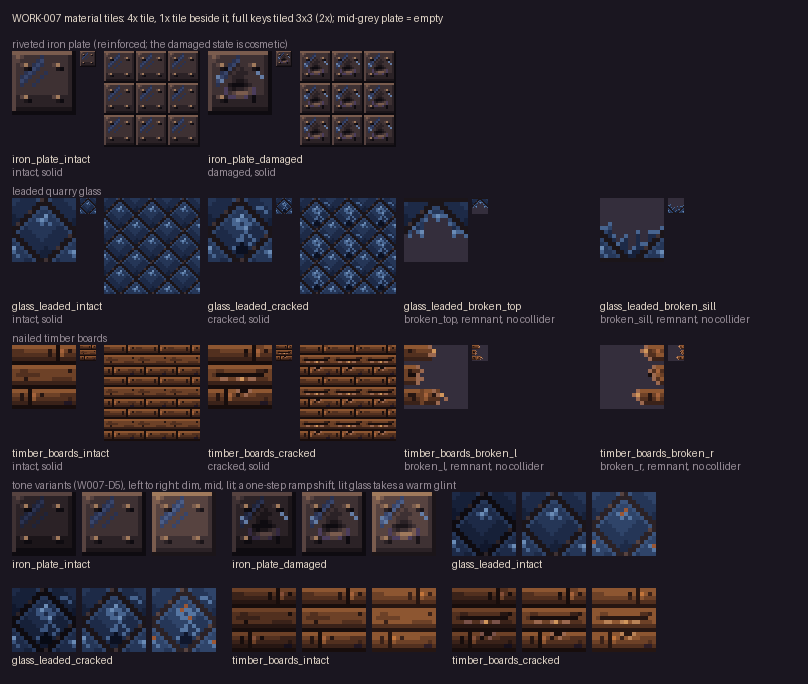
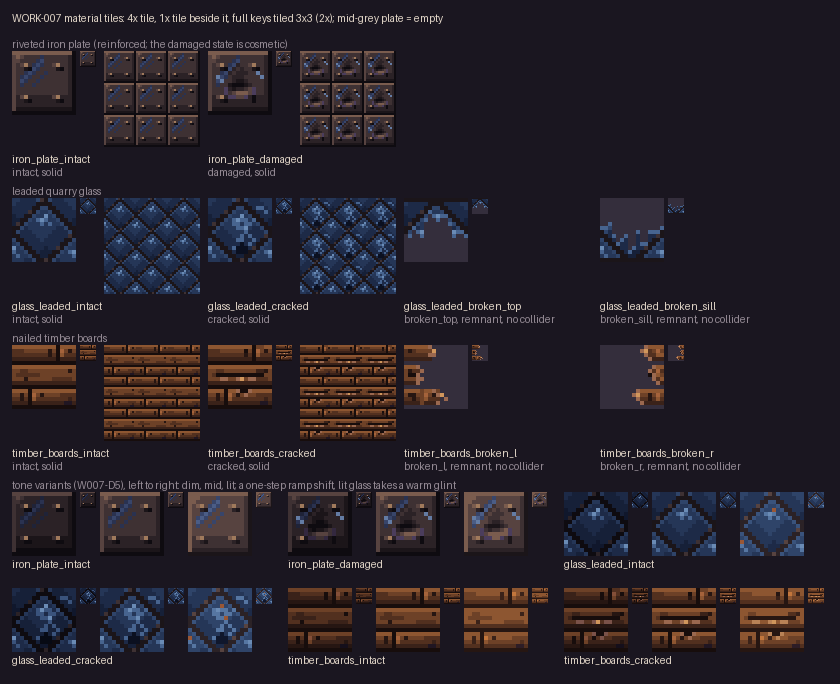
art(work-007): apply independent review fix-now items F-1 to F-6
Lit glass warms only the top pixel of each glint streak, tone shifts never land on an accent of their own ramp, remnant limit 50 percent for all four remnants, derived frames 9 to 21 frozen in the fixture, materials sheet shows the 1x tile in the tone rows, spec and evidence records refreshed.

diff --git a/scripts/author_work007_materials.py b/scripts/author_work007_materials.py
@@ -12,8 +12,9 @@ Derived frames (spec ``docs/02-art/work-007-fidelity-sample-spec.md`` section 6,
   stub lengths 5, 3 and 7 px);
 * frames 10 to 15 (``_dim``) and 16 to 21 (``_lit``) of frames 0, 1, 2, 3, 6, 7: every
   non-accent key shifts one index down (dim) or up (lit) inside its own palette ramp,
-  clamped at the ramp ends; accent keys stay; lit glass turns each ``gal_10`` glint pixel
-  into ``gal_warm_03`` and nothing else.
+  clamped at the ramp ends; accent keys stay; a shift never lands on an accent colour of its
+  own ramp (the key keeps its mid index; review ruling, PR #163); lit glass turns only the top
+  pixel of each ``gal_10`` glint streak into ``gal_warm_03`` and nothing else.
 
 Usage::
 
@@ -116,6 +117,46 @@ def shifted_name(name: str, step: int, ramp_table: dict[str, list[tuple[int, str
     return names[max(0, min(len(names) - 1, pos))]
 
 
+def tone_name(name: str, step: int, ramp_table: dict[str, list[tuple[int, str]]], accents: set[str]) -> str:
+    """One-step ramp shift of a non-accent colour; never onto an accent colour of its own ramp.
+
+    Review ruling (PR #163, Q3): a key whose one-step target is an accent colour keeps its mid
+    index, so the lit iron bevel ``iron_05`` stays ``iron_05`` and the rivet heads (``iron_06``)
+    keep their pop.
+    """
+    target = shifted_name(name, step, ramp_table)
+    return name if target in accents else target
+
+
+def glint_tops(rows: list[str], glint_key: str) -> set[tuple[int, int]]:
+    """Topmost pixel of every glint streak of a glass tile.
+
+    A streak is an 8-connected group of ``glint_key`` pixels on the tile torus, so the corner
+    glint that continues into the neighbouring tile (col 15 row 13 and col 0 row 12) counts as
+    one streak. The top is the smallest row, then the smallest column (no wrap in y).
+    """
+    cells = {(x, y) for y, row in enumerate(rows) for x, ch in enumerate(row) if ch == glint_key}
+    seen: set[tuple[int, int]] = set()
+    tops: set[tuple[int, int]] = set()
+    for start in sorted(cells, key=lambda c: (c[1], c[0])):
+        if start in seen:
+            continue
+        group, stack = set(), [start]
+        while stack:
+            x, y = stack.pop()
+            if (x, y) in group:
+                continue
+            group.add((x, y))
+            for dx in (-1, 0, 1):
+                for dy in (-1, 0, 1):
+                    n = ((x + dx) % 16, y + dy)
+                    if n in cells and n not in group:
+                        stack.append(n)
+        seen |= group
+        tops.add(min(group, key=lambda c: (c[1], c[0])))
+    return tops
+
+
 def derive(grid: dict, kit: dict) -> dict:
     """Return the grid with frames 9..21 rebuilt from the frozen keys (0 to 8 untouched)."""
     ramp_table = ramps(kit["palette"])
@@ -145,20 +186,20 @@ def derive(grid: dict, kit: dict) -> dict:
 
     def tone(frame_no: int, step: int) -> dict:
         rows = []
-        for row in grid["frames"][frame_no]["cels"]["main"]:
+        src_rows = grid["frames"][frame_no]["cels"]["main"]
+        tops = glint_tops(src_rows, by_name["gal_10"]) if step > 0 and frame_no in (2, 3) else set()
+        for y, row in enumerate(src_rows):
             out = []
-            for ch in row:
+            for x, ch in enumerate(row):
                 if ch == ".":
                     out.append(ch)
                     continue
                 name = names_by_key[ch]
                 if name in accents:
-                    if step > 0 and frame_no in (2, 3) and name == "gal_10":
-                        out.append(key_for("gal_warm_03"))
-                    else:
-                        out.append(ch)
+                    # lit glass: only the top pixel of each glint streak turns warm (spec E1)
+                    out.append(key_for("gal_warm_03") if (x, y) in tops else ch)
                 else:
-                    out.append(key_for(shifted_name(name, step, ramp_table)))
+                    out.append(key_for(tone_name(name, step, ramp_table, accents)))
             rows.append("".join(out))
         return {"duration_ms": 100, "cels": {"main": rows}}
 
@@ -203,7 +244,7 @@ def contract(grid: dict) -> dict:
         "format": "env-kit-v2",
         "kit_id": "floor01_materials",
         "extends": "assets/source/terrain/floor01/floor01_catacomb_kit.json",
-        "status": "proposed - WORK-007 phase 2 drawn (Claude Sonnet) on the Opus keys; awaiting independent Opus review; not owner-approved",
+        "status": "proposed - WORK-007 phase 2 drawn (Claude Sonnet) on the Opus keys; independent Opus review PASS WITH FIX-NOW, fixes applied by Claude Sonnet; not owner-approved",
         "extension_note": "Inherits palette, layers, draw order, coordinates, walking-line rule and lighting schema from the ENV-01 contract (env_kit.py resolve_extends). Adds one frame-per-tile atlas (floor01_materials, one 16x16 tile per Aseprite frame, exported as a rows sheet) and the material_tiles section: 16x16 material tiles that may be partial (edge remnants of broken states) and are placed by pixel position in the WORK-007 sample scene (assets/levels/floor01/work007_fidelity_sample.json). They are not part of the env-kit-layout tile grid; no new palette colours.",
         "palette_use": {"floor01_materials": len(grid["palette"])},
         "atlases": {
@@ -220,7 +261,7 @@ def contract(grid: dict) -> dict:
         "state_groups": groups,
         "usage_rules": {
             "W007_scene": "Place by pixel position in the sample scene file. Full tiles carry collider [0, 0, 16, 16]; broken tiles carry none. Reinforced (iron_plate) never changes outline or collider. Stone and iron cells never change between the intact and breached frames.",
-            "tones": "_dim and _lit are one-step ramp shifts of the mid key (W007-D5); accent keys stay; lit glass turns the gal_10 glint into gal_warm_03.",
+            "tones": "_dim and _lit are one-step ramp shifts of the mid key (W007-D5); accent keys stay and a shift never lands on an accent colour of its own ramp; lit glass turns only the top pixel of each gal_10 glint streak into gal_warm_03.",
         },
     }
 
@@ -244,6 +285,8 @@ def main(argv=None) -> int:
     sys.path.insert(0, str(ROOT / "scripts"))
     from pixelart.validators import frame_digest  # noqa: E402
     for n, entry in keys["keys"].items():
+        if int(n) >= FROZEN_FRAMES:
+            continue  # derived frames are frozen in the fixture too, but the derivation may rebuild them
         got = frame_digest(grid["frames"][int(n)]["cels"], ["main"])
         if got != entry["sha256"]:
             print(f"frozen key frame {n} changed: refusing to continue", file=sys.stderr)

diff --git a/tests/test_art_work007_materials.py b/tests/test_art_work007_materials.py
@@ -30,7 +30,7 @@ WALK_LINE = 308
 CARL_HEIGHT = 52
 CARL_WIDTH = 24      # generous width of the 52 px Carl silhouette (idle 23 px)
 JUMP_APEX = 92
-FROZEN_BROKEN_TOP_OPAQUE = 0.477  # frozen key frame 4: 122 of 256 px
+REMNANT_OPAQUE_LIMIT = 0.50  # review ruling Q1 (PR #163): measured 47.7, 43.4, 35.2 and 25.0 %
 
 
 def load(path: Path) -> dict:
@@ -56,7 +56,8 @@ class GridTests(unittest.TestCase):
         cls.names = names_by_key(cls.grid)
 
     def test_frozen_keys_are_byte_identical(self) -> None:
-        self.assertEqual(sorted(self.keys["keys"], key=int), [str(i) for i in range(9)])
+        # frames 0 to 8 are the Opus keys, 9 to 21 the derived tiles frozen after the review (F-4)
+        self.assertEqual(sorted(self.keys["keys"], key=int), [str(i) for i in range(22)])
         for n, entry in self.keys["keys"].items():
             with self.subTest(frame=n):
                 self.assertEqual(frame_digest(self.grid["frames"][int(n)]["cels"], ["main"]),
@@ -101,15 +102,12 @@ class GridTests(unittest.TestCase):
             for n in (dim, lit):
                 self.assertTrue(all("." not in row for row in frame_rows(self.grid, n)), n)
 
-    def test_broken_remnants_are_at_most_45_percent_opaque(self) -> None:
+    def test_broken_remnants_are_at_most_50_percent_opaque(self) -> None:
         for tile in aw.TILES:
             frame, tid, state = tile[0], tile[1], tile[3]
             opaque = sum(ch != "." for row in frame_rows(self.grid, frame) for ch in row)
             if state in aw.BROKEN_STATES:
-                # The frozen key glass_leaded_broken_top measures 47.7 %: the spec's 45 % limit
-                # is not met by that Opus key (recorded as an unmet target, keys stay frozen).
-                limit = FROZEN_BROKEN_TOP_OPAQUE if tid == "glass_leaded_broken_top" else 0.45
-                self.assertLessEqual(opaque / 256, limit, tid)
+                self.assertLessEqual(opaque / 256, REMNANT_OPAQUE_LIMIT, tid)
                 self.assertGreater(opaque, 0, tid)
             else:
                 self.assertEqual(opaque, 256, tid)
@@ -128,10 +126,40 @@ class GridTests(unittest.TestCase):
                             continue
                         na, nb = self.names[ca], self.names[cb]
                         if na in accents:
-                            glint = step > 0 and src in (2, 3) and na == "gal_10"
-                            self.assertEqual(nb, "gal_warm_03" if glint else na)
+                            self.assertIn(nb, (na, "gal_warm_03"))
+                            if nb != na:
+                                self.assertEqual((step, na), (1, "gal_10"))
                         else:
-                            self.assertEqual(nb, aw.shifted_name(na, step, table))
+                            self.assertEqual(nb, aw.tone_name(na, step, table, accents))
+                            # review ruling Q3: a shift never lands on an accent of its own ramp
+                            self.assertNotIn(nb, accents)
+
+    def test_lit_glass_warms_only_the_top_pixel_of_each_glint_streak(self) -> None:
+        by_name = {e["name"]: e["key"] for e in self.grid["palette"]}
+        warm, glint = by_name["gal_warm_03"], by_name["gal_10"]
+        # streak tops: the diagonal glint under the lattice crossing, the corner glint that
+        # continues into the neighbouring tile (col 15 row 13 with col 0 row 12), the cracked glint
+        expected = {2: {(8, 4), (0, 12)}, 3: {(8, 4), (0, 12), (9, 7)}}
+        for src, lit in ((2, 18), (3, 19)):
+            rows = frame_rows(self.grid, lit)
+            warmed = {(x, y) for y, row in enumerate(rows) for x, ch in enumerate(row) if ch == warm}
+            self.assertEqual(warmed, expected[src], lit)
+            # every other glint pixel of the mid key stays gal_10
+            for y, row in enumerate(frame_rows(self.grid, src)):
+                for x, ch in enumerate(row):
+                    if ch == glint and (x, y) not in warmed:
+                        self.assertEqual(rows[y][x], glint, (lit, x, y))
+
+    def test_lit_iron_bevel_stays_below_the_rivet_accent(self) -> None:
+        by_name = {e["name"]: e["key"] for e in self.grid["palette"]}
+        for src, lit in ((0, 16), (1, 17)):
+            # the rivet heads (iron_06) are the only iron_06 pixels: the bevel no longer joins them
+            count = lambda n: sum(ch == by_name["iron_06"] for row in frame_rows(self.grid, n) for ch in row)  # noqa: E731
+            self.assertEqual(count(lit), count(src), lit)
+            for ra, rb in zip(frame_rows(self.grid, src), frame_rows(self.grid, lit)):
+                for ca, cb in zip(ra, rb):
+                    if self.names[ca] == "iron_05":
+                        self.assertEqual(self.names[cb], "iron_05")
 
     def test_broken_r_is_redrawn_not_mirrored(self) -> None:
         r = frame_rows(self.grid, 9)

diff --git a/scripts/work007_sample.py b/scripts/work007_sample.py
@@ -366,7 +366,7 @@ def tiled_3x3(tile: Image.Image) -> Image.Image:
 
 def materials_sheet(kit: ek.Kit) -> Image.Image:
     """Every material tile at 1x and 4x, each full key also 3x3 tiled (shown at 2x), states left to
-    right (intact, cracked or damaged, broken), then the dim / mid / lit tone rows at 4x."""
+    right (intact, cracked or damaged, broken), then the dim / mid / lit tone rows at 4x with the 1x tile beside each."""
     tiles = {t["id"]: t for t in kit.contract["material_tiles"]}
 
     def img(tid: str) -> Image.Image:
@@ -381,7 +381,8 @@ def materials_sheet(kit: ek.Kit) -> Image.Image:
                                   "timber_boards_broken_r")),
     )
     margin, cell_w, line = 12, 196, 13
-    width = margin * 2 + cell_w * 4
+    tone_slot, tone_gap = 88, 12  # 4x tile (64 px), 4 px, the 1x tile (16 px), 4 px
+    width = margin * 2 + max(cell_w * 4, 3 * (3 * tone_slot + tone_gap) - tone_gap)
     height = margin + 2 * line + len(families) * (line + 100 + 2 * line + 8) + line + 2 * (64 + 2 * line + 6) + margin
     sheet = Image.new("RGB", (width, height), SHEET_BG)
     draw = ImageDraw.Draw(sheet)
@@ -408,9 +409,11 @@ def materials_sheet(kit: ek.Kit) -> Image.Image:
               ("glass_leaded_cracked", "timber_boards_intact", "timber_boards_cracked"))
     for row in groups:
         for gi, base in enumerate(row):
-            gx = margin + gi * 3 * 70 + gi * 10
+            gx = margin + gi * (3 * tone_slot + tone_gap)
             for ti, suffix in enumerate(("_dim", "", "_lit")):
-                sheet.paste(on_plate(img(base + suffix), 4), (gx + ti * 70, y))
+                tile = img(base + suffix)
+                sheet.paste(on_plate(tile, 4), (gx + ti * tone_slot, y))
+                sheet.paste(on_plate(tile, 1), (gx + ti * tone_slot + 68, y))
             draw.text((gx, y + 66), base, fill=SHEET_INK)
         y += 64 + 2 * line + 6
     return sheet.crop((0, 0, width, y))

diff --git a/docs/02-art/work-007-fidelity-sample-spec.md b/docs/02-art/work-007-fidelity-sample-spec.md
@@ -1,6 +1,6 @@
-# WORK-007: native-resolution art fidelity sample (design spec, phase 1)
+# WORK-007: native-resolution art fidelity sample (design spec)
 
-**Status:** design and keys frozen (phase 1); phase 2 executed (tiles, contract, scene, frames, sheets; the Bevy capture E6 is a recorded blocker, see the evidence README), review pending. The nine 16×16 material keys exist as an editable pixel grid and `.ase`; derived tiles, contract, exports, validators, the composed sample frames and the Bevy capture are the phase 2 execution brief below. Independent review and the owner's art review come after phase 2. Nothing is wired into a Bevy binary yet.
+**Status:** design and keys frozen (phase 1); phase 2 executed (tiles, contract, scene, frames, sheets; the Bevy capture E6 is a recorded blocker, see the evidence README); independent Opus art review passed with fix-now items, which were applied by Sonnet (section 9). The nine 16×16 material keys and the thirteen derived tiles exist as an editable pixel grid and `.ase`; all 22 frames are frozen in the fixture. The owner's art review comes at the end. Nothing is wired into a Bevy binary yet.
 **Issue:** [#15](https://github.com/pando85/dungeon-floorbreak/issues/15) (WORK-007). **Visual target:** [VT-001 Inspection Corridor](visual-target-inspection-corridor.md) (mood and composition only).
 **Builds on:** the owner-approved [ENV-01 kit](floor-01-catacomb-kit.md) (palette `floor01-catacomb-v2`, A1 frame of [ADR-0007](../05-decisions/ADR-0007-rendering-resolution-lighting.md)), the owner-approved [ENV-02 opening pieces](env-02-opening-spec.md), [VFX-01](vfx-01-spec.md), the approved Carl 52 px locomotion atlas ([ANIM-CARL-01](carl-locomotion-anim-01.md)) and the CF02-F microarena perch values ([CF02-F evidence](../evidence/cf02/cf02-c2f/README.md)). Material classes follow [destruction.md](../03-tech/destruction.md).
 **Routing:** difficulty score 1 (new design; 16 px, simple construction, no VFX), class **Easy**, route **C with the silhouette gate** ([routing by difficulty](../07-agents/pixel-art-pipeline.md#routing-by-difficulty)): the design step writes this spec and the keys; phase 2 draws the derived tiles and the evidence; a fresh gate checks the keys at 1× in the lit scene before the derived tiles are drawn.
@@ -37,7 +37,7 @@
 
 ## 3. The keys (frozen)
 
-Source: [`assets/source/terrain/floor01/materials.grid.json`](../../assets/source/terrain/floor01/materials.grid.json) (`pixel-grid-v1`, canvas 16×16, one frame per tile, layer `main`; tags `iron_plate` 0 to 1, `glass_leaded` 2 to 5, `timber_boards` 6 to 8) and its `.ase` built by `scripts/pixel_grid_to_ase.py build`. Frozen hashes: [`tests/fixtures/work-007-materials_keys.json`](../../tests/fixtures/work-007-materials_keys.json) (`pixelart-keys-v1`, one SHA-256 per frame). Phase 2 must not change these frames; a design problem goes back to design.
+Source: [`assets/source/terrain/floor01/materials.grid.json`](../../assets/source/terrain/floor01/materials.grid.json) (`pixel-grid-v1`, canvas 16×16, one frame per tile, layer `main`; tags `iron_plate` 0 to 1, `glass_leaded` 2 to 5, `timber_boards` 6 to 8) and its `.ase` built by `scripts/pixel_grid_to_ase.py build`. Frozen hashes: [`tests/fixtures/work-007-materials_keys.json`](../../tests/fixtures/work-007-materials_keys.json) (`pixelart-keys-v1`, one SHA-256 per frame: frames 0 to 8 are the Opus keys, frames 9 to 21 are the derived tiles frozen after the independent review, section 9). Phase 2 must not change frames 0 to 8; a design problem goes back to design.
 
 | Frame | Tile id | Material | Opaque | Collidable when placed | Notes |
 | --- | --- | --- | --- | --- | --- |
@@ -90,7 +90,7 @@ Optional in F2, for the enemy readability question of VT-001: one GOB-01 goblin 
 1. **Material identity at 1×:** in the F1 and F2 frames at 640×360, each of the four materials is named correctly from the 1× frame alone, and again from a greyscale copy (pattern, not only hue).
 2. **Tiling:** every full key tiles 3×3 without an unplanned seam; the glass lattice phase and the board rows continue across tile edges (tested).
 3. **State read:** `iron_plate_damaged` reads as "hit, still solid"; `glass_leaded_cracked` and `timber_boards_cracked` read as "about to go"; the F2 openings read as passable, the iron and masonry as unchanged.
-4. **Palette and lint:** all colours are `floor01-catacomb-v2` entries, at most 63 per atlas; 0 isolated pixels; at most 20 orphans per tile (accent keys exempt).
+4. **Palette and lint:** all colours are `floor01-catacomb-v2` entries, at most 63 per atlas; 0 isolated pixels; at most 20 orphans per tile (accent keys exempt); each broken-state edge remnant is **at most 50 % opaque** (review ruling Q1, section 9; measured 47.7, 43.4, 35.2 and 25.0 %).
 5. **Staging:** in F1 no VFX pixel overlaps Carl, his silhouette stays readable at 1× and on a 7-inch handheld; the burst does not hide the breach outline in F2.
 6. **Geometry:** clear heights and the perch height of section 4 hold (tested from the scene file).
 7. **Exact frames:** each 2× frame is a nearest-neighbour ×2 of its 1× frame, pixel for pixel (tested); 3× is 1920×1080 from 640×360.
@@ -103,24 +103,36 @@ No design decisions are needed below; anything that seems to need one goes back 
 - **E0 Gate first.** Render the nine keys at 1× in the lit F1/F2 frames (tasks E3 can run on the keys alone) and request the silhouette gate before drawing E1.
 - **E1 Derived tiles** (same grid, new frames after frame 8; the frozen frames 0 to 8 stay byte-identical):
   - `timber_boards_broken_r`: stubs at the right jamb, **redrawn, not mirrored** (light still from the top-left: lit board tops, fracture faces on the left end of each stub, nails at x 14). Stub lengths 5, 3 and 7 px.
-  - Tone variants `_dim` and `_lit` of frames 0, 1, 2, 3, 6, 7: shift every non-accent key one index down (`_dim`) or up (`_lit`) **within its own ramp**, clamped at the ramp ends; accent keys unchanged. Exception: `_lit` glass may turn the top pixel of each glint into `gal_warm_03` (a torch reflection), nothing else.
-  - Record every new frame in the frozen-key fixture only after the independent review passes.
+  - Tone variants `_dim` and `_lit` of frames 0, 1, 2, 3, 6, 7: shift every non-accent key one index down (`_dim`) or up (`_lit`) **within its own ramp**, clamped at the ramp ends; accent keys unchanged. **A tone shift never lands a non-accent key on an accent colour of its own ramp: that key keeps its mid index** (review ruling Q3, section 9; for example `iron_05` stays `iron_05` in the lit iron tiles, so the rivet heads `iron_06` keep their pop). Exception: `_lit` glass turns **only the top pixel of each glint streak** into `gal_warm_03` (a torch reflection), nothing else; a streak is an 8-connected group of `gal_10` pixels, and the corner glint that continues into the neighbouring tile (col 15 row 13 with col 0 row 12) counts as one streak.
+  - Record every new frame in the frozen-key fixture only after the independent review passes (done after the review fixes: frames 9 to 21 are in the fixture).
 - **E2 Contract and export:** an `env-kit-v2` extension contract `assets/source/terrain/floor01/floor01_materials_kit.json` with `"extends"` set to the ENV-01 contract (same rules as ENV-02: no redeclared palette or layers, new atlas name `floor01_materials`). Tiles carry `material` (`reinforced`, `glass`, `wood`), `state` and `collidable`/`collider` as in section 3; a `state_groups` entry per family. A manifest `assets/manifests/floor01_materials.json` (`review_status: prototype_fixture_unapproved`, `grid_source`, provenance as section 7). Export through `bash scripts/export_assets.sh`; validate with `python3 scripts/validate_assets.py`. The WORK-008 fixture `assets/source/terrain/dungeon/materials.ase` stays untouched (it is the pipeline fixture).
 - **E3 Scene file and composer:** `assets/levels/floor01/work007_fidelity_sample.json` (`work007-sample-v1`): the base corridor tiles, the divider cells per frame, actor and VFX placements and the two views, all from section 4. Compose F0, F1, F2 with the existing A1 tools (`scripts/env_kit.py`, `scripts/env_kit_light.py`, the `scripts/pixelart` scene helpers), no bespoke lighting code.
 - **E4 Frames:** per frame and view: unlit 1×, lit 1×, lit 2× (1280×720 / 1280×800) and lit 3× of the 640×360 view (1920×1080), all nearest-neighbour from the 1× frame.
 - **E5 Contact sheets:** (a) the materials sheet: every tile at 1× and 4×, each full key also 3×3 tiled, states left to right (intact → cracked/damaged → broken); (b) the small animation sheet: Carl idle 4 and run 6, VFX-01 `bomb_flight` and `burst`, `timber_splinter_burst`, at 1× and 3×.
 - **E6 Bevy capture:** a presentation-only `floor01_scene --work007-sample` flag that spawns the scene file statically (no gameplay, no physics change; every golden stays byte-identical) and the captures at 640×360, 640×400 and 1920×1080 through the existing capture scripts. If this needs more than static sprite placement, record the actual blocker in the PR and keep the Pillow frames as the review evidence.
-- **E7 Tests:** `tests/test_art_work007_materials.py`: frozen keys; palette subset of the kit and at most 63 colours; 0 isolated pixels; iron intact and damaged both 16×16 opaque with identical alpha; broken tiles at most 45 % opaque; glass lattice and board-row continuity across tile edges; the scene file's clear heights, perch height and the stone/iron cells unchanged between F0 and F2; 2× equals nearest ×2 of 1×.
+- **E7 Tests:** `tests/test_art_work007_materials.py`: frozen keys; palette subset of the kit and at most 63 colours; 0 isolated pixels; iron intact and damaged both 16×16 opaque with identical alpha; broken tiles at most 50 % opaque (ruling Q1); glass lattice and board-row continuity across tile edges; the scene file's clear heights, perch height and the stone/iron cells unchanged between F0 and F2; 2× equals nearest ×2 of 1×.
 - **E8 Evidence and records:** `docs/evidence/work-007/README.md` (frame table, contact sheets, validator report, what was not run), `SHA256SUMS` over the committed evidence files, the new rows in the art asset tables (the floor01 kit doc's contents and the evidence index). Tick the VT-001 review-status boxes only for evidence that exists. Run `python3 scripts/check_docs.py`, `python3 scripts/validate_assets.py`, `pytest tests/test_art_work007_materials.py tests/test_art_env_kit.py`.
 
 ## 7. Rights and provenance
 
 Original pixel art, placed pixel by pixel on the 16 px grid from written rules and hand-set coordinates; no image-model raster output, and nothing copied, cropped, traced or resampled from the two mood images or any third-party asset. All colours are entries of the project's own `floor01-catacomb-v2` palette. The leaded-glass lattice, riveted plate and nailed boards are generic period construction, not a copy of any game's tiles. Frames that show Carl use the approved Carl atlas under the owner-reported `ART-PUBLICATION-ALL-V1` scope in [rights-and-release.md](../04-production/rights-and-release.md); that scope is not independently verified, is not a public reuse licence and grants no right to distribute a game or an asset pack. Manifests stay `prototype_fixture_unapproved`.
 
-Design, spec and the nine keys: Claude Opus (claude-opus-5-5), 2026-11-21. Execution (phase 2): Claude Sonnet (claude-sonnet-5-5), 2026-11-21; results, findings and what was not run: [evidence](../evidence/work-007/README.md). Independent review: pending, a separate Claude Opus agent. Owner art review: at the end.
+Design, spec and the nine keys: Claude Opus (claude-opus-5-5), 2026-11-21. Execution (phase 2): Claude Sonnet (claude-sonnet-5-5), 2026-11-21; results, findings and what was not run: [evidence](../evidence/work-007/README.md). Independent review: a separate Claude Opus agent (claude-opus-5-5), 2026-11-21, verdict PASS WITH FIX-NOW (section 9); fix-now items applied by Claude Sonnet (claude-sonnet-5-5). Owner art review: at the end.
 
 ## 8. Open questions (non-blocking; defaults above apply)
 
 1. **Gameplay material mapping.** `src/prototype.rs` has `Stone`, `Steel`, `Catwalk`, `Timber`; destruction.md lists `Glass`, `Metal`, `Reinforced`. The tiles carry an art-side `material` tag only. Which gameplay class `iron_plate` maps to (`Steel` or a new `Reinforced`) and when `Glass` enters the code are integrator decisions.
-2. **Warm glass.** Should lit glass near a torch take a warm reflection (the E1 `_lit` exception), or stay cold everywhere?
+2. **Warm glass.** Should lit glass near a torch take a warm reflection (the E1 `_lit` exception), or stay cold everywhere? Even with only the top pixel of each glint warmed, `gal_warm_03` is darker than the `gal_10` glint it replaces; if warm glass stays, the designer should pick a warm entry of matching value or drop the exception (review follow-up U-5).
 3. **Boards versus the ENV-02 barricade.** Which one the opening route uses for its lane blocker stays the integrator's call; both are approved or proposed art of the same timber.
+
+## 9. Independent review (PR #163, 2026-11-21)
+
+Reviewer: a separate Claude Opus agent (claude-opus-5-5), one round, against sections 3 to 5. Verdict **PASS WITH FIX-NOW**, no blockers. The executor's open questions were ruled as follows; the spec text above already carries the rulings.
+
+- **Q1, remnant limit (design ruling):** the 45 % figure was a heuristic to make remnants read as edges, not as a barrier. The limit is **50 % for all four remnants** (measured 47.7, 43.4, 35.2, 25.0 %). `glass_leaded_broken_top` is accepted as drawn; both glass remnants keep a full-width lead channel row that is frame, not glass. No redraw.
+- **Q2, wood against brick in greyscale:** accepted for this sample; a top-tier design follow-up (U-1) before wood cells enter a real level.
+- **Q3, lit iron (design ruling):** a tone shift never lands a non-accent key on an accent colour of its own ramp; the key keeps its mid index. `iron_05` stays `iron_05` in `_lit` iron (16 and 19 px), and the rivet heads keep their pop.
+- **Q4, Bevy capture E6 deferred:** accepted (E6 allows the Pillow fallback); follow-up U-2.
+- **Q5, `material_tiles` contract section:** accepted as an additive section, no ADR needed.
+
+Fix-now items applied by Claude Sonnet: F-1 lit glass warms only the top pixel of each glint streak; F-2 the Q3 rule in `_dim` and `_lit`; F-3 the 50 % remnant limit in the tests; F-4 frames 9 to 21 frozen in the fixture; F-5 records refresh; F-6 the 1x tile beside each tone-row tile on the materials sheet. Non-blocking follow-ups U-1 to U-7 are listed in the PR body and are not done here.

diff --git a/docs/evidence/work-007/README.md b/docs/evidence/work-007/README.md
@@ -1,6 +1,6 @@
 # WORK-007 evidence: native-resolution fidelity sample (phase 2)
 
-Review renders for the [WORK-007 fidelity sample spec](../../02-art/work-007-fidelity-sample-spec.md) (issue #15). Status: **phase 2 drawn and composed (Claude Sonnet) on the Opus keys; independent Opus review pending; owner art review at the end. Nothing here is approved.** Design, spec and the nine keys by Claude Opus (claude-opus-5-5), execution by Claude Sonnet, review by a separate Claude Opus agent (pending).
+Review renders for the [WORK-007 fidelity sample spec](../../02-art/work-007-fidelity-sample-spec.md) (issue #15). Status: **phase 2 drawn and composed (Claude Sonnet) on the Opus keys; independent Opus review done (PASS WITH FIX-NOW), fix-now items applied (Claude Sonnet); owner art review at the end. Nothing here is approved.** Design, spec and the nine keys by Claude Opus (claude-opus-5-5), execution and the review fixes by Claude Sonnet, review by a separate Claude Opus agent. See [Review](#review).
 
 The frames are **Pillow compositions** from the exported atlases: the unlit layers come from `scripts/env_kit.py`, the lighting pass from `scripts/env_kit_light.py` (profile `floor01_torchlit_a1`, read unchanged from the ENV-01 sample layout), and nothing is wired into a Bevy binary. They are not Bevy captures and not gameplay evidence. See [What was not run](#what-was-not-run).
 
@@ -34,7 +34,7 @@ For each state and view (`640x360` = `[0, 20, 640, 360]`, `640x400` = `[0, 0, 64
 
 ## What was added in phase 2
 
-- `assets/source/terrain/floor01/materials.grid.json` and `.ase`: frames 9 to 21 (frames 0 to 8 are byte-identical to the frozen keys, checked against `tests/fixtures/work-007-materials_keys.json`): `timber_boards_broken_r` (redrawn, stubs 5, 3 and 7 px, nails at x 14) and the `_dim` / `_lit` variants of frames 0, 1, 2, 3, 6, 7 by a one-step ramp shift inside each palette ramp (accent keys unchanged; lit glass turns the `gal_10` glint into `gal_warm_03`). 42 palette entries, all `floor01-catacomb-v2`; the atlas holds 42 opaque colours (limit 63); 0 isolated pixels; 3 to 19 orphans per frame (limit 20, accent keys exempt).
+- `assets/source/terrain/floor01/materials.grid.json` and `.ase`: frames 9 to 21 (frames 0 to 8 are byte-identical to the frozen keys, checked against `tests/fixtures/work-007-materials_keys.json`): `timber_boards_broken_r` (redrawn, stubs 5, 3 and 7 px, nails at x 14) and the `_dim` / `_lit` variants of frames 0, 1, 2, 3, 6, 7 by a one-step ramp shift inside each palette ramp (accent keys unchanged; a shift never lands on an accent colour of its own ramp, so `iron_05` stays `iron_05` in the lit iron tiles; lit glass turns only the top pixel of each `gal_10` glint streak into `gal_warm_03`, 2 pixels in frame 18 and 3 in frame 19). All 22 frames are frozen in the fixture. 42 palette entries, all `floor01-catacomb-v2`; the atlas holds 42 opaque colours (limit 63); 0 isolated pixels; 3 to 19 orphans per frame (limit 20, accent keys exempt).
 - `assets/manifests/floor01_materials.json` (`material_tileset`, `prototype_fixture_unapproved`), so `scripts/validate_assets.py` covers the atlas, and `assets/source/terrain/floor01/floor01_materials_kit.json`, an `env-kit-v2` extension of the ENV-01 contract with a `material_tiles` section (material `reinforced`, `glass` or `wood`, state, tone, collider `[0, 0, 16, 16]` for full tiles, none for edge remnants) and `state_groups` per family.
 - `scripts/env_kit.py`: `resolve_extends` merges `material_tiles`, and `_check_material_tiles` validates them (frame-per-tile atlas, rect equals the exported frame, full tiles opaque and collidable, remnants 1-bit alpha without collider, one entry per frame). See [Findings](#findings-for-the-designer-and-the-reviewer).
 - `scripts/author_work007_materials.py` (derivation and contract, deterministic, `check` fails when stale) and `scripts/work007_sample.py` (scene file, frames, sheets).
@@ -47,7 +47,7 @@ For each state and view (`640x360` = `[0, 20, 640, 360]`, `640x400` = `[0, 0, 64
 | 1 | Material identity at 1x and in greyscale | Met at 1x by my own check (brick running bond, orange-brown horizontal boards, grey riveted plate with a cold glint, the blue diamond lattice). **Greyscale: borderline for wood against brick** (see findings). The independent review decides. |
 | 2 | Tiling 3x3, lattice phase and board rows continue | Met (tested; sheet shows the 3x3 blocks) |
 | 3 | State read | Met by my own reading of the sheet and F1/F2 (plate dent reads as "hit, still solid"; cracks read as "about to go"; F2 openings read as passable); the reviewer confirms |
-| 4 | Palette and lint | Met (42 colours, 0 isolated, at most 19 orphans) **except** the 45 % remnant limit: the frozen key `glass_leaded_broken_top` is 47.7 % opaque. The three other remnants are 43.4 %, 35.2 % and 25.0 %. |
+| 4 | Palette and lint | Met (42 colours, 0 isolated, at most 19 orphans). Remnant opacity limit is **50 %** for all four remnants after the review ruling Q1 (was 45 %): measured 47.7 % (`glass_leaded_broken_top`), 43.4 %, 35.2 % and 25.0 %; asserted uniformly in the tests. |
 | 5 | Staging | In F1 no VFX pixel overlaps Carl (tested on the sprite alpha boxes); Carl stays readable at 1x. Not checked on a real 7-inch handheld (no device). In F2 the smoke sits over the middle column but both jamb remnants stay visible. |
 | 6 | Geometry | Met (tested from the scene file) |
 | 7 | Exact frames | Met (tested; 3x is 1920x1080 from 640x360) |
@@ -56,9 +56,9 @@ For each state and view (`640x360` = `[0, 20, 640, 360]`, `640x400` = `[0, 0, 64
 ## Findings for the designer and the reviewer
 
 1. **E0 silhouette gate was my own check, not an independent gate.** I rendered the nine keys at 1x in lit F1/F2 before drawing E1 (with a mirrored `broken_l` standing in for the not yet drawn `broken_r`) and found no reason to change a key. The independent top-tier gate and review are still required.
-2. **The 45 % rule is not met by the frozen key `glass_leaded_broken_top` (47.7 %).** I did not edit the key. The test asserts 45 % for every other remnant and records the measured value for this one. A design call: relax the limit to 50 % or redraw the key.
+2. **The 45 % rule was not met by the frozen key `glass_leaded_broken_top` (47.7 %).** Resolved by the review (Q1): the limit is 50 % for all four remnants, the key stays as drawn.
 3. **Wood against brick in greyscale is close.** The boards are thin horizontal runs with few vertical joints and brick is a running bond, but in a greyscale copy of F1 the dark boards read like small bricks at a glance. Hue and pattern at 1x are clear. If the reviewer disagrees, a design change (for example wider light board tops) is a designer decision.
-4. **`_lit` iron: `iron_05` shifts to `iron_06`, which is the rivet-head accent colour.** On the lit plate the bevel highlight and the rivet heads share a colour, so the rivets lose their pop. This follows the spec's rule literally (one index up, clamped); I did not special-case it. Visible in the sheet. The dim and mid tones are unaffected. The tone variants are not placed in the sample frames (the scene uses the mid keys under the lighting pass).
+4. **`_lit` iron: `iron_05` shifted to `iron_06`, the rivet-head accent colour.** Resolved by the review (Q3): a tone shift never lands a non-accent key on an accent colour of its own ramp, so `iron_05` stays `iron_05` in the lit iron tiles (16 and 19 px) and the rivets keep their pop. The tone variants are not placed in the sample frames (the scene uses the mid keys under the lighting pass), so only the materials sheet changed.
 5. **Tooling gap closed in `scripts/env_kit.py`.** The spec's E2 asks for tiles with `material`, `state` and `collidable`/`collider` in an `env-kit-v2` extension, but the contract's `tiles` must come from a single-frame `tileset` atlas and be fully opaque, so the partial broken states and the frame-per-tile atlas cannot be listed there. I added a separate `material_tiles` section with its own validator (the existing `tiles` rules are unchanged, and the ENV-01 and ENV-02 contracts validate as before). If the integrator prefers another shape, only that section and its validator change.
 6. **The sample scene is not an `env-kit-layout`, as the spec says (W007-D8).** The composer builds an in-memory layout dict for the A1 renderer: the divider cells go into the `structure` piece layer as pixel-placed pieces, the parallax layers are dropped (this frame has none), and the lighting profile is read from `corridor_abc_sample.json` unchanged.
 7. The base corridor is generated from ENV-01 tile ids (grammar A, 40 columns: the left wall end and end caps as in the ENV-01 sample layout, deck tone by distance to the torch). The left torch pool decal starts at x -32 (flame at x 88, as specified); it is clipped at the layout edge.
@@ -67,11 +67,19 @@ For each state and view (`640x360` = `[0, 20, 640, 360]`, `640x400` = `[0, 0, 64
 
 - **E6, the Bevy capture (`floor01_scene --work007-sample`): not built.** `floor01_scene` is the whole game scene (heroes, combat, HUD, audio, recorder). It has no path that places a posed Carl atlas frame, a mirrored goblin or free VFX frames at pixel positions without the simulation owning them, and its `setup` builds the kit from an `env-kit-layout`, which the sample is not (W007-D8). A static spawn therefore needs more than sprite placement (a new kit builder from `work007-sample-v1`, flip support for atlas pieces, and gating the hero, HUD and combat spawns), so I recorded the blocker instead of wiring it. The Pillow frames are the review evidence.
 - No GIF (the spec asks for one only if any).
-- No independent review, no owner review, no handheld check.
+- No owner review, no handheld check (the independent review is recorded below).
 - `bash scripts/export_assets.sh`, `python3 scripts/validate_assets.py`, `python3 scripts/check_docs.py` and `pytest tests/test_art_work007_materials.py tests/test_art_env_kit.py tests/test_art_env02_opening.py tests/test_art_assets.py tests/test_art_pixel_grid.py` were run on the final tree; results are in the PR body.
+
+## Review
+
+Independent art-director review by a separate Claude Opus agent (claude-opus-5-5), one round: **PASS WITH FIX-NOW**, no blockers. Rulings: Q1 remnant limit 50 % for all four remnants; Q2 wood against brick in greyscale accepted for this sample (follow-up U-1); Q3 a lit tone shift never lands on its own ramp's accent (`iron_05` stays in lit tiles); Q4 E6 deferred, accepted; Q5 `material_tiles` contract section accepted.
+
+Fix-now applied by Claude Sonnet: F-1 lit glass warms only the top pixel of each glint streak (frames 18 and 19 re-derived: the lit glass keeps its `gal_10` highlight); F-2 lit iron keeps `iron_05` (frames 16 and 17); F-3 uniform 50 % remnant limit (measured values above); F-4 frames 9 to 21 frozen in `tests/fixtures/work-007-materials_keys.json`; F-5 records refreshed (PR title and body, spec section 9, this README); F-6 the 1x tile now sits beside every tile in the tone rows of the materials sheet. Regenerated evidence: `work007_materials_sheet.png` and `SHA256SUMS` (the three scene states and the animation sheet are unchanged, byte for byte); a second export run is byte-identical.
+
+Open follow-ups, not done here: U-1 wood greyscale read (top-tier design, frozen-key change); U-2 Bevy capture as its own work order; U-3 light the showcase (design, owner game feel); U-4 upper opening visual clearance; U-5 warm glint value; U-6 F0 parked bomb read; U-7 7-inch handheld check (owner).
 
 ## Rights and provenance
 
 Original pixel art placed on the 16 px grid from written rules and hand-set coordinates; no image-model raster output, and nothing copied, cropped, traced or resampled from the two mood images or any third-party asset. All colours are entries of `floor01-catacomb-v2`. The frames that show Carl use the approved Carl atlas under the owner-reported `ART-PUBLICATION-ALL-V1` scope in [rights-and-release.md](../../04-production/rights-and-release.md); that scope is not independently verified, is not a public reuse licence and grants no right to distribute a game or an asset pack. The goblin is the GOB-01 h36 candidate, the burst and bomb are VFX-01 and the splinters are ENV-02, all unchanged.
 
-Models: design Claude Opus (claude-opus-5-5); execution Claude Sonnet (claude-sonnet-5-5); review pending (a separate Claude Opus agent).
+Models: design Claude Opus (claude-opus-5-5); execution and review fixes Claude Sonnet (claude-sonnet-5-5); independent review a separate Claude Opus agent (claude-opus-5-5), PASS WITH FIX-NOW.
